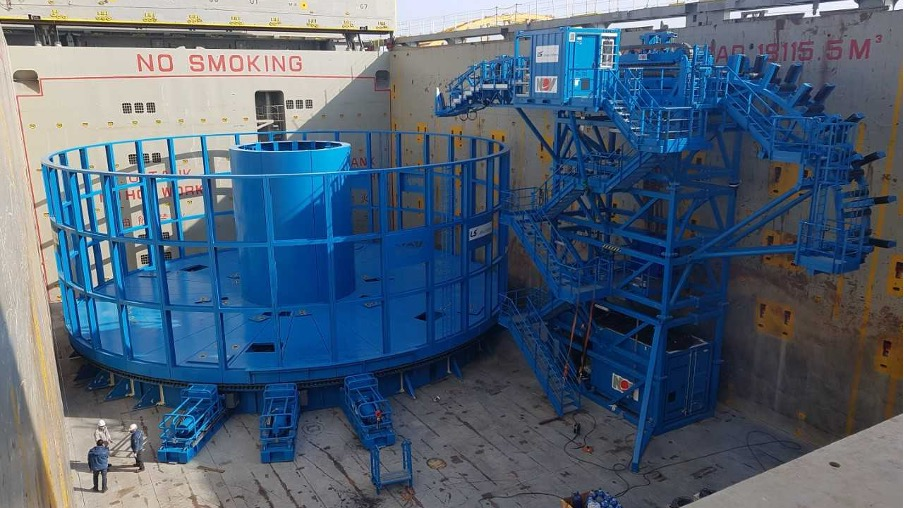
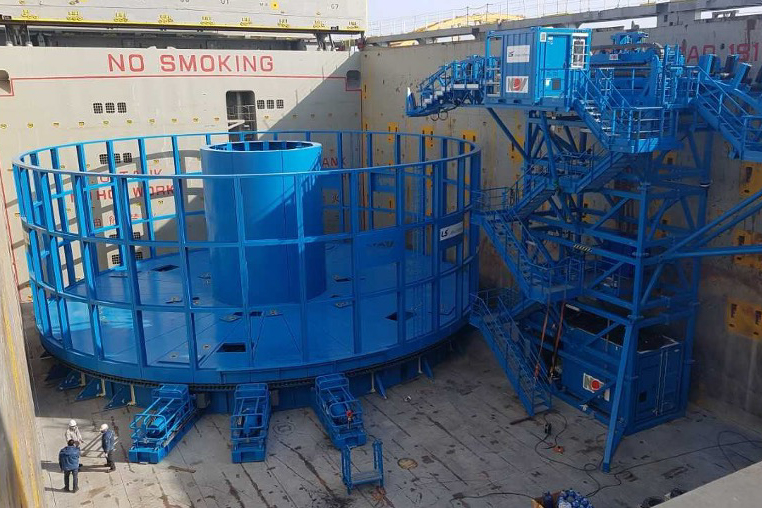
photo aspect

diff --git a/index.html b/index.html
@@ -973,7 +973,7 @@ footer {
           </div>
         </div>
         <div class="project-image">
-          <img src="bascule.png" alt="Project image placeholder" class="project-image-img">
+          <img src="Bascule.jpg" alt="Project image placeholder" class="project-image-img">
         </div>       
       </div>
 
@@ -1061,7 +1061,7 @@ footer {
         </div>
 
         <div class="project-image">
-          <img src="Upend.png" alt="Project image placeholder">
+          <img src="Upend.jpg" alt="Project image placeholder">
         </div>
       </div>
 
